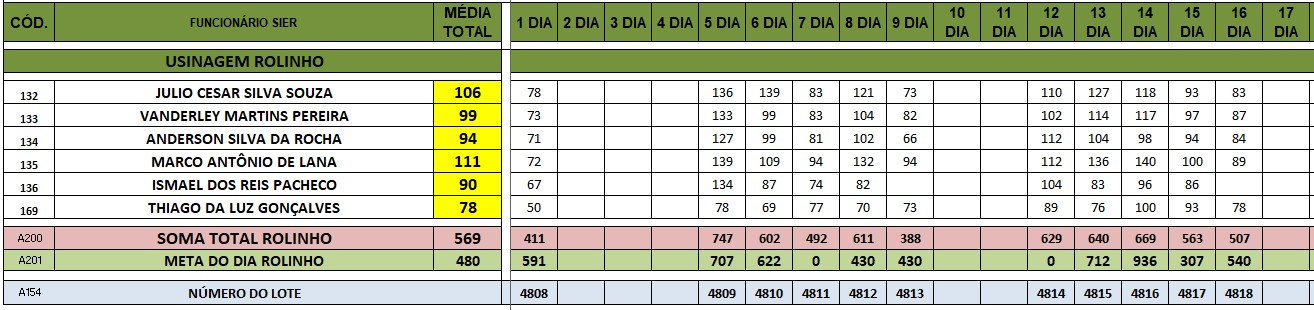
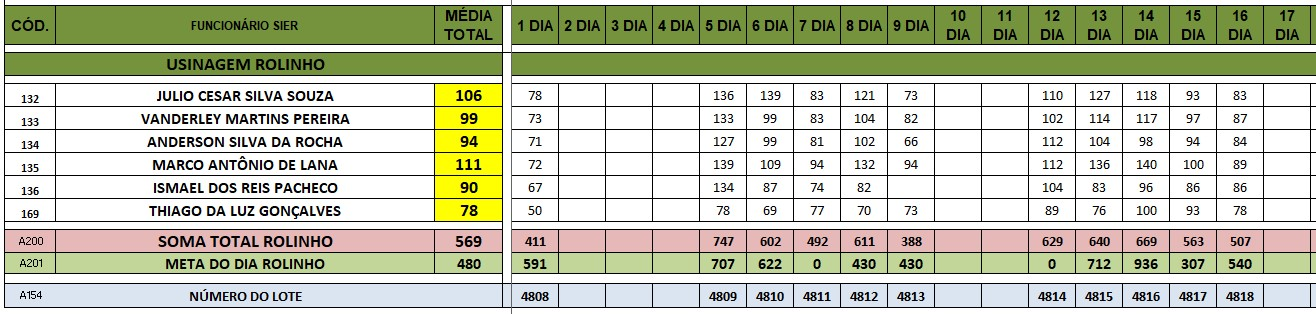
,

Changed region(s): [[0.0, 0.0, 1.0, 0.9871]]

diff --git a/back__incial.js b/back__incial.js
@@ -1320,6 +1320,10 @@ const unidades = {
             { data: "13/05/2025", captura: ["capturas/Unidade 2/Usinagem/2025/MAIO/Mont. Us/13.jpg", "capturas/Unidade 2/Usinagem/2025/MAIO/Rolinho/13.jpg", "capturas/Unidade 2/Usinagem/2025/MAIO/Roquite/13.jpg", "capturas/Unidade 2/Usinagem/2025/MAIO/MM/13.jpg", "capturas/Unidade 2/Usinagem/2025/MAIO/Usinagem/13.jpg"] },
             { data: "14/05/2025", captura: ["capturas/Unidade 2/Usinagem/2025/MAIO/Mont. Us/14.jpg", "capturas/Unidade 2/Usinagem/2025/MAIO/Rolinho/14.jpg", "capturas/Unidade 2/Usinagem/2025/MAIO/Roquite/14.jpg", "capturas/Unidade 2/Usinagem/2025/MAIO/MM/14.jpg", "capturas/Unidade 2/Usinagem/2025/MAIO/Usinagem/14.jpg"] },
             { data: "15/05/2025", captura: ["capturas/Unidade 2/Usinagem/2025/MAIO/Mont. Us/15.jpg", "capturas/Unidade 2/Usinagem/2025/MAIO/Rolinho/15.jpg", "capturas/Unidade 2/Usinagem/2025/MAIO/Roquite/15.jpg", "capturas/Unidade 2/Usinagem/2025/MAIO/MM/15.jpg", "capturas/Unidade 2/Usinagem/2025/MAIO/Usinagem/15.jpg"] },
+            { data: "16/05/2025", captura: ["capturas/Unidade 2/Usinagem/2025/MAIO/Mont. Us/16.jpg", "capturas/Unidade 2/Usinagem/2025/MAIO/Rolinho/16.jpg", "capturas/Unidade 2/Usinagem/2025/MAIO/Roquite/16.jpg", "capturas/Unidade 2/Usinagem/2025/MAIO/MM/16.jpg", "capturas/Unidade 2/Usinagem/2025/MAIO/Usinagem/16.jpg"] },
+
+
+
 
 
         ],
